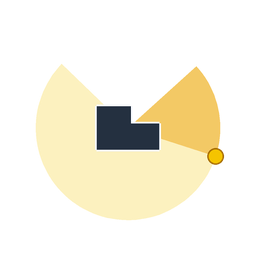
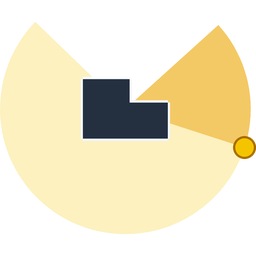
🤖 Trim the brand images to the guide
The icon now fills its square and the logo uses the tallest short side the brands page allows.

diff --git a/scripts/brand.py b/scripts/brand.py
@@ -2,11 +2,14 @@
 """Draw the Sun Sweep mark: a top-down house on its daylight wedge.
 
 Writes the SVG sources under ``brand/`` and the PNG files Home Assistant
-shows on the integration page. Run from the repository root::
+shows on the integration page. Sizes follow the integration brands guide:
+a square icon at 256 and 512, and a landscape logo whose short side is 256
+and 512. Run from the repository root::
 
     uv run python scripts/brand.py
 
-Needs Pillow, which the test environment already has.
+Needs Pillow, which the test environment already has, and optipng on PATH
+so the files are interlaced, which the brands guide prefers.
 """
 
 from __future__ import annotations
@@ -14,6 +17,8 @@ from __future__ import annotations
 import contextlib
 import math
 from pathlib import Path
+import shutil
+import subprocess
 
 from PIL import Image, ImageDraw, ImageFont
 
@@ -90,49 +95,90 @@ def _font(size: int) -> ImageFont.FreeTypeFont:
     return font
 
 
-def _icon(pixels: int, dark: bool) -> Image.Image:
-    # drawn large and scaled down, so the wedge edge is smooth
-    big = pixels * 4
+def _tight_mark(dark: bool) -> Image.Image:
+    """The mark, cropped to its pixels, drawn large enough to scale cleanly."""
+    big = 2048
     work = Image.new("RGBA", (big, big), (0, 0, 0, 0))
     draw_mark(work, big / 2, big * 0.36, dark)
-    return work.resize((pixels, pixels), Image.Resampling.LANCZOS)
+    box = work.getbbox()
+    if box is None:
+        return work
+    return work.crop(box)
+
+
+def _icon(pixels: int, dark: bool) -> Image.Image:
+    """A square icon. The mark fills it; only the shorter axis is letterboxed."""
+    mark = _tight_mark(dark)
+    side = max(mark.size)
+    square = Image.new("RGBA", (side, side), (0, 0, 0, 0))
+    square.alpha_composite(mark, ((side - mark.width) // 2, (side - mark.height) // 2))
+    return square.resize((pixels, pixels), Image.Resampling.LANCZOS)
 
 
 def _logo(height: int, dark: bool) -> Image.Image:
+    """A landscape wordmark whose short side is ``height``, with no outer margin."""
     mark = _icon(height, dark)
-    font = _font(int(height * 0.42))
+    # The old wordmark was sized against a padded mark. Keep that proportion
+    # now that the mark fills its square (the wedge used 0.72 of the canvas).
+    font = _font(round(height * 0.42 / 0.72))
     text = "Sun Sweep"
-    gap = int(height * 0.16)
+    gap = round(height * 0.12)
     measure = ImageDraw.Draw(Image.new("RGBA", (1, 1)))
     width = math.ceil(measure.textlength(text, font=font))
-    image = Image.new(
-        "RGBA",
-        (height + gap + width + int(height * 0.08), height),
-        (0, 0, 0, 0),
-    )
+    image = Image.new("RGBA", (height + gap + width, height), (0, 0, 0, 0))
     image.alpha_composite(mark, (0, 0))
     ink = (244, 247, 251, 255) if dark else (61, 74, 87, 255)
     draw = ImageDraw.Draw(image)
     draw.text((height + gap, height / 2), text, font=font, fill=ink, anchor="lm")
-    return image
+    box = image.getbbox()
+    if box is None:
+        return image
+    cropped = image.crop(box)
+    short = min(cropped.size)
+    if short == height:
+        return cropped
+    factor = height / short
+    return cropped.resize(
+        (round(cropped.width * factor), round(cropped.height * factor)),
+        Image.Resampling.LANCZOS,
+    )
+
+
+def _save(image: Image.Image, path: Path) -> None:
+    image.save(path, format="PNG", optimize=True)
+    optipng = shutil.which("optipng")
+    if optipng is None:
+        raise SystemExit("optipng is required to write interlaced brand images")
+    subprocess.run([optipng, "-i", "1", "-o", "2", "-quiet", str(path)], check=True)
 
 
 def _svg(dark: bool) -> str:
-    """The icon as SVG, the source the PNGs are drawn to match."""
+    """The icon as SVG, cropped to the mark the same way as the PNG."""
     edge = "#f4f7fb" if dark else "#3d4a57"
     fill = "#243040" if dark else "#f7f4ef"
     centre, rim = 256.0, 184.0
+    sun = _at(NOW, rim, centre)
+    points = [
+        *_sector(RISE, SET, rim, centre),
+        *_house(centre, rim),
+        (sun[0] - 24, sun[1]),
+        (sun[0] + 24, sun[1]),
+        (sun[0], sun[1] - 24),
+        (sun[0], sun[1] + 24),
+    ]
+    pad = 8.0
+    left = min(point[0] for point in points) - pad
+    top = min(point[1] for point in points) - pad
+    right = max(point[0] for point in points) + pad
+    bottom = max(point[1] for point in points) + pad
 
     def ring(start: float, end: float) -> str:
-        points = " ".join(
-            f"{x:.1f},{y:.1f}" for x, y in _sector(start, end, rim, centre)
-        )
-        return points
+        return " ".join(f"{x:.1f},{y:.1f}" for x, y in _sector(start, end, rim, centre))
 
     house = " ".join(f"{x:.1f},{y:.1f}" for x, y in _house(centre, rim))
-    sun = _at(NOW, rim, centre)
     return (
-        f'<svg xmlns="http://www.w3.org/2000/svg" viewBox="0 0 512 512">'
+        f'<svg xmlns="http://www.w3.org/2000/svg" viewBox="{left:.1f} {top:.1f} '
+        f'{right - left:.1f} {bottom - top:.1f}">'
         f'<polygon points="{ring(RISE, SET)}" fill="#f6d84a" fill-opacity="0.35"/>'
         f'<polygon points="{ring(RISE, NOW)}" fill="#f0b429" fill-opacity="0.72"/>'
         f'<polygon points="{house}" fill="{fill}" stroke="{edge}" stroke-width="8"/>'
@@ -147,13 +193,13 @@ def main() -> None:
     (SOURCES / "icon.svg").write_text(_svg(False), encoding="utf-8")
     (SOURCES / "dark_icon.svg").write_text(_svg(True), encoding="utf-8")
     for dark, name in ((False, "icon"), (True, "dark_icon")):
-        _icon(256, dark).save(BRAND / f"{name}.png")
-        _icon(512, dark).save(BRAND / f"{name}@2x.png")
+        _save(_icon(256, dark), BRAND / f"{name}.png")
+        _save(_icon(512, dark), BRAND / f"{name}@2x.png")
     for dark, name in ((False, "logo"), (True, "dark_logo")):
-        logo = _logo(128, dark)
-        logo.save(BRAND / f"{name}.png")
-        _logo(256, dark).save(BRAND / f"{name}@2x.png")
-        logo.save(SOURCES / f"{name}.png")
+        logo = _logo(256, dark)
+        _save(logo, BRAND / f"{name}.png")
+        _save(_logo(512, dark), BRAND / f"{name}@2x.png")
+        _save(logo, SOURCES / f"{name}.png")
 
 
 if __name__ == "__main__":

diff --git a/tests/test_brand.py b/tests/test_brand.py
@@ -1,0 +1,59 @@
+# Copyright (c) 2026 MinchinWeb
+"""Brand images follow the Home Assistant integration brands guide."""
+
+from __future__ import annotations
+
+from pathlib import Path
+
+from PIL import Image
+
+BRAND = (
+    Path(__file__).resolve().parents[1] / "custom_components" / "sun_sweep" / "brand"
+)
+
+# Square icons are 256 and 512. A logo's short side is 128-256, or 256-512
+# at double resolution, and the top of that range is preferred. Trimmed
+# means the subject meets the canvas on its long axis.
+_ICON = {
+    "icon.png": 256,
+    "dark_icon.png": 256,
+    "icon@2x.png": 512,
+    "dark_icon@2x.png": 512,
+}
+_LOGO = {
+    "logo.png": (128, 256),
+    "dark_logo.png": (128, 256),
+    "logo@2x.png": (256, 512),
+    "dark_logo@2x.png": (256, 512),
+}
+
+
+def test_icons_are_square_trimmed_pngs():
+    for name, side in _ICON.items():
+        image = Image.open(BRAND / name)
+        assert image.format == "PNG"
+        assert image.size == (side, side)
+        assert image.mode == "RGBA"
+        assert image.info.get("interlace")
+        _reaches_the_edge(image)
+
+
+def test_logos_are_landscape_and_as_tall_as_allowed():
+    for name, (low, high) in _LOGO.items():
+        image = Image.open(BRAND / name)
+        assert image.format == "PNG"
+        assert image.mode == "RGBA"
+        assert image.info.get("interlace")
+        short = min(image.size)
+        assert image.width > image.height
+        assert short == high
+        assert low <= short <= high
+        _reaches_the_edge(image)
+
+
+def _reaches_the_edge(image: Image.Image) -> None:
+    box = image.getchannel("A").getbbox()
+    assert box is not None
+    left, top, right, bottom = box
+    width, height = image.size
+    assert min(left, top, width - right, height - bottom) <= 2
